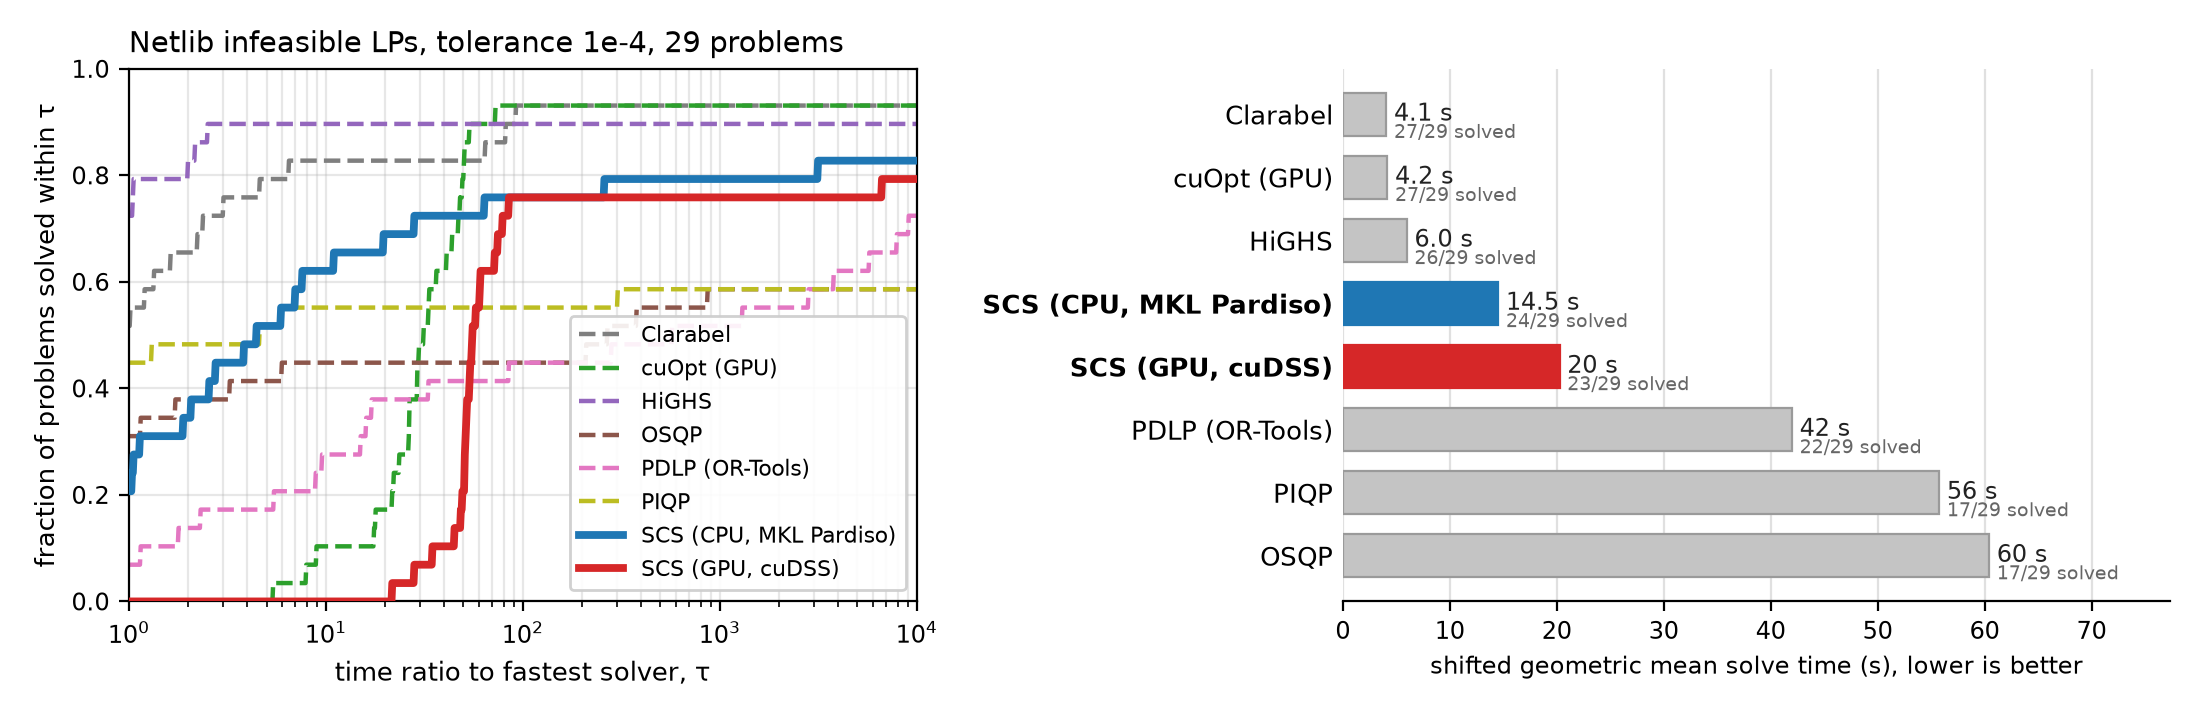
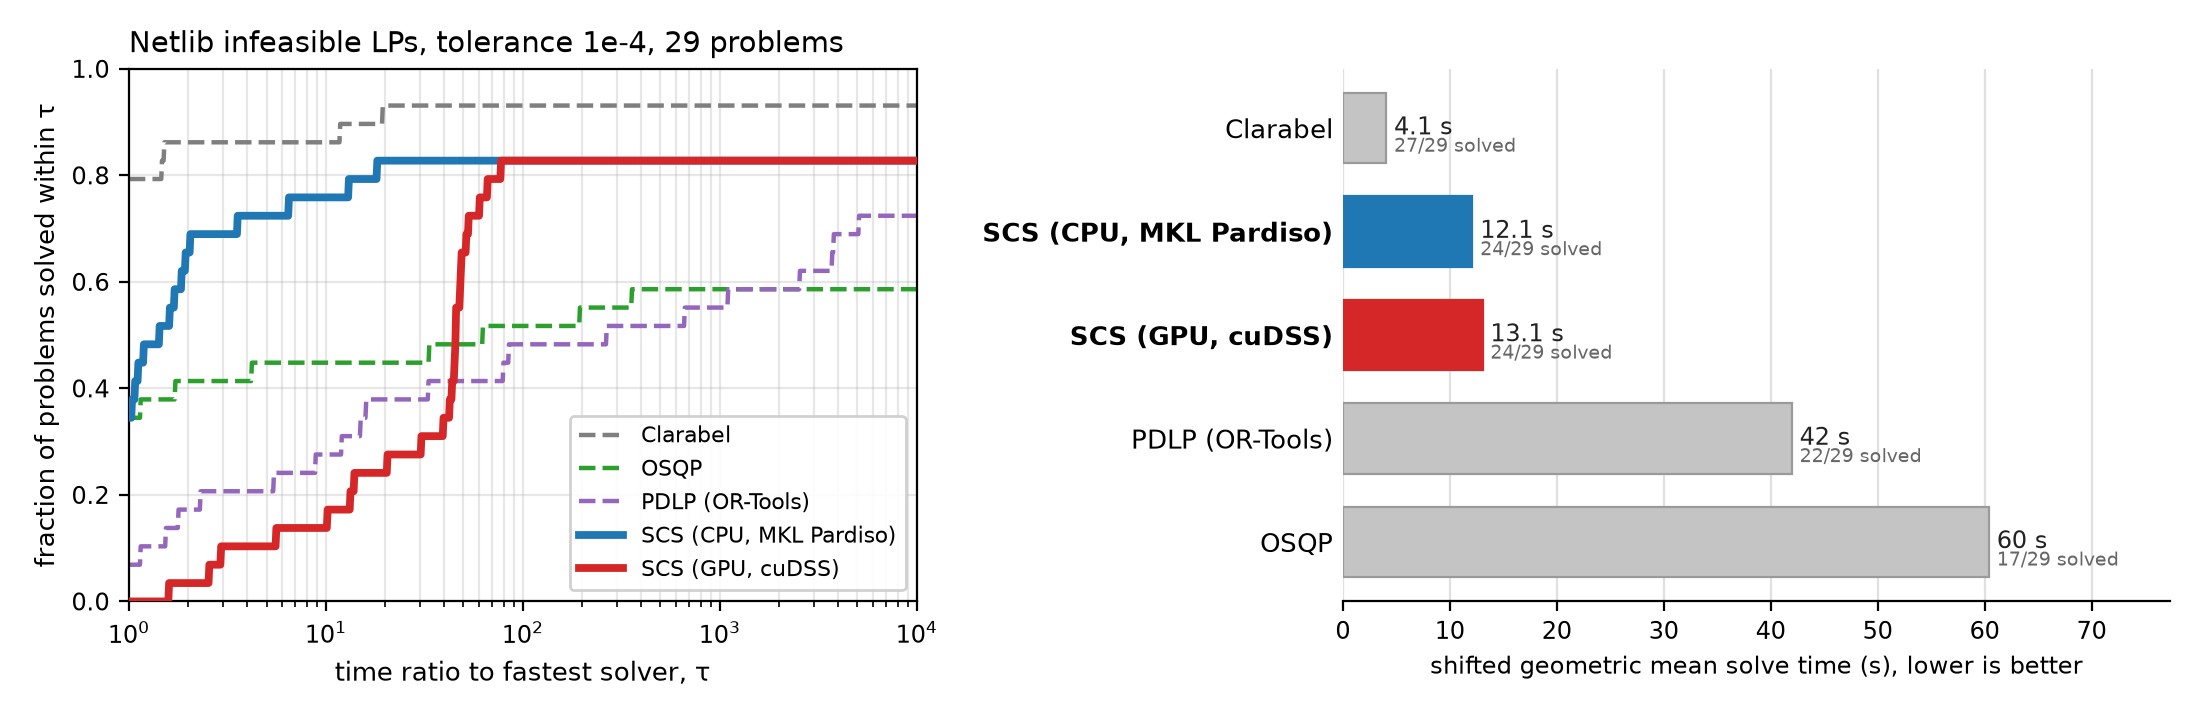
docs: infeasibility runs with matched infeasibility tolerances; plot for certificate solvers only

diff --git a/docs/src/benchmarks/index.rst b/docs/src/benchmarks/index.rst
@@ -569,8 +569,11 @@ LP solver on the 29 infeasible LPs of the Netlib collection (two of them,
 ``cplex1`` and ``mondou2``, are both primal and dual infeasible) and every SDP
 solver on the four infeasible SDPLIB instances (``infp1`` and ``infp2`` are
 primal infeasible, ``infd1`` and ``infd2`` dual infeasible, that is
-unbounded), at the same settings as the plots above, plus SCS and OSQP at
-:math:`10^{-6}`. SCS, Clarabel, OSQP, PDLP and CVXOPT return a certificate
+unbounded), at the same settings as the plots above with each solver's
+infeasibility tolerance set equal to its solve tolerance (``eps_infeas`` for
+SCS, ``tol_infeas_abs`` and ``tol_infeas_rel`` for Clarabel; the others have
+no separate setting), plus SCS and OSQP at :math:`10^{-6}`. SCS, Clarabel,
+OSQP, PDLP and CVXOPT return a certificate
 (a Farkas ray), which the harness checks against the problem data at the
 same :math:`10^{-3}` threshold as the plots; HiGHS, PIQP, cuOpt and SDPA
 report a status only. A verified certificate of either kind is a proof and
@@ -582,22 +585,22 @@ such an instance for every solver that solves it), so this is a statement
 about the tolerance rather than an error.
 
 SCS returns a verified certificate for 24 of the 29 infeasible LPs at
-:math:`10^{-4}` and for 26 at :math:`10^{-6}` with no wrong answer, in
-about 1.6 s geometric mean, and for all four infeasible SDPs on both
-backends. Its two wrong answers at :math:`10^{-4}` (``qual`` and ``vol1``)
-are points reported optimal whose residuals just miss the check, at
+:math:`10^{-4}`, in 0.2 s geometric mean, and for 26 at :math:`10^{-6}`
+with no wrong answer, and for all four infeasible SDPs on both backends.
+Its three wrong answers at :math:`10^{-4}` are two points reported optimal
+whose residuals just miss the check (``qual`` and ``vol1``, at
 :math:`1.1 \times 10^{-3}` and :math:`1.4 \times 10^{-3}`; at
 :math:`10^{-6}` SCS flags both as inaccurate, with residuals inside the
-check. Clarabel certifies 27 and HiGHS
-detects 26 by status, both faster. The other first-order solvers are less
-conclusive: OSQP gives no answer on 9 of the 29 and PDLP on 5; cuOpt reports
-``cplex2`` optimal. On the SDPs, SDPA gets all four by status, while
-CVXOPT's certificates fail the check and point the wrong way on the two
-unbounded instances.
+check) and, on ``reactor``, a certificate of unboundedness that does not
+verify. Clarabel certifies 27 in 0.3 s and HiGHS detects 26 by status. The
+other first-order solvers are less conclusive: OSQP gives no answer on 9 of
+the 29 and PDLP on 5; cuOpt reports ``cplex2`` optimal. On the SDPs, SDPA
+gets all four by status, while CVXOPT's certificates fail the check and
+point the wrong way on the two unbounded instances.
 
-The plot treats a correct answer (a verified certificate, or the right status
-for a status-only solver) as a solve and everything else as a failure, with
-the same failure charge as the other sets.
+The plot compares the solvers that return certificates. A verified
+certificate counts as a solve and everything else as a failure, with the
+same failure charge as the other sets.
 
 .. figure:: ../files/bench/infeas_1e-4_pair.png
    :width: 100 %
@@ -619,10 +622,10 @@ the same failure charge as the other sets.
      - 24
      - 0
      - 0
-     - 3
      - 2
+     - 3
      - 0
-     - 1.55
+     - 0.20
    * - SCS (CPU, MKL Pardiso), 1e-6
      - 26
      - 0
@@ -630,23 +633,23 @@ the same failure charge as the other sets.
      - 3
      - 0
      - 0
-     - 1.66
+     - 0.74
    * - SCS (GPU, cuDSS), 1e-4
-     - 23
+     - 24
      - 0
      - 0
-     - 5
-     - 1
+     - 3
+     - 2
      - 0
-     - 2.45
+     - 0.73
    * - SCS (GPU, cuDSS), 1e-6
      - 26
      - 0
      - 0
-     - 1
-     - 0
      - 2
-     - 3.03
+     - 0
+     - 1
+     - 2.66
    * - Clarabel
      - 27
      - 0
@@ -654,7 +657,7 @@ the same failure charge as the other sets.
      - 1
      - 0
      - 0
-     - 0.32
+     - 0.33
    * - PIQP
      - 0
      - 17
@@ -723,7 +726,7 @@ the same failure charge as the other sets.
      - 0
      - 0
      - 0
-     - 0.05
+     - 0.04
    * - SCS (GPU, cuDSS)
      - 4
      - 0
@@ -731,7 +734,7 @@ the same failure charge as the other sets.
      - 0
      - 0
      - 0
-     - 0.63
+     - 0.70
    * - Clarabel
      - 4
      - 0
